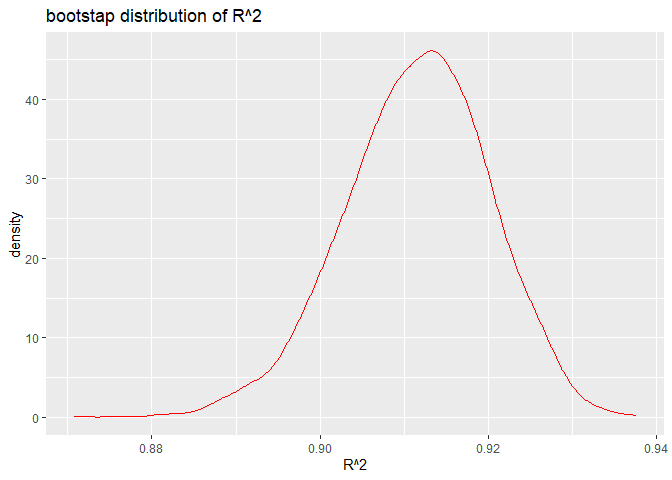
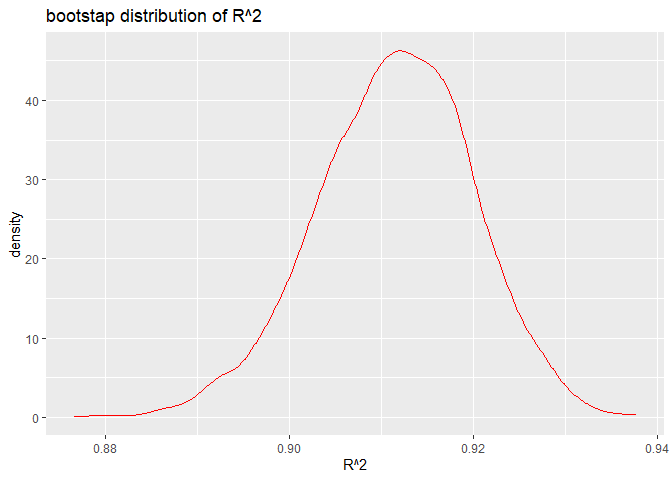
p3

diff --git a/hw6.md b/hw6.md
@@ -22,7 +22,23 @@ library(tidyverse)
 library(broom)
 library(ggplot2)
 library(purrr)
+library(modelr)
 ```
+
+    ## Warning: package 'modelr' was built under R version 4.4.2
+
+    ## 
+    ## Attaching package: 'modelr'
+    ## 
+    ## The following object is masked from 'package:broom':
+    ## 
+    ##     bootstrap
+
+``` r
+library(rsample)
+```
+
+    ## Warning: package 'rsample' was built under R version 4.4.2
 
 ## Problem 1
 
@@ -83,7 +99,7 @@ print(ci_r_sqr)
 ```
 
     ##      2.5%     97.5% 
-    ## 0.8931807 0.9273063
+    ## 0.8935250 0.9274094
 
 ``` r
 print("95% CI for log(β^0 * β^1):")
@@ -96,7 +112,7 @@ print(ci_log_beta)
 ```
 
     ##     2.5%    97.5% 
-    ## 1.966575 2.059841
+    ## 1.963406 2.059195
 
 ``` r
 ggplot(bootstrap_df, aes(x = r_sqr))+
@@ -209,3 +225,192 @@ ggplot(ordered_results, aes(x= reorder(city_state, estimate), y = estimate))+
 
 ![](hw6_files/figure-gfm/unnamed-chunk-9-1.png)<!-- --> COMMENT ON THE
 PLOT
+
+## Problem 3
+
+``` r
+bw_df = read.csv("./data/birthweight.csv")
+glimpse(bw_df)
+```
+
+    ## Rows: 4,342
+    ## Columns: 20
+    ## $ babysex  <int> 2, 1, 2, 1, 2, 1, 2, 2, 1, 1, 2, 1, 2, 1, 1, 2, 1, 2, 2, 2, 1…
+    ## $ bhead    <int> 34, 34, 36, 34, 34, 33, 33, 33, 36, 33, 35, 35, 35, 36, 35, 3…
+    ## $ blength  <int> 51, 48, 50, 52, 52, 52, 46, 49, 52, 50, 51, 51, 48, 53, 51, 4…
+    ## $ bwt      <int> 3629, 3062, 3345, 3062, 3374, 3374, 2523, 2778, 3515, 3459, 3…
+    ## $ delwt    <int> 177, 156, 148, 157, 156, 129, 126, 140, 146, 169, 130, 146, 1…
+    ## $ fincome  <int> 35, 65, 85, 55, 5, 55, 96, 5, 85, 75, 55, 55, 75, 75, 65, 75,…
+    ## $ frace    <int> 1, 2, 1, 1, 1, 1, 2, 1, 1, 2, 1, 1, 1, 1, 1, 2, 1, 1, 1, 2, 1…
+    ## $ gaweeks  <dbl> 39.9, 25.9, 39.9, 40.0, 41.6, 40.7, 40.3, 37.4, 40.3, 40.7, 4…
+    ## $ malform  <int> 0, 0, 0, 0, 0, 0, 0, 0, 0, 0, 0, 0, 0, 0, 0, 0, 0, 0, 0, 0, 0…
+    ## $ menarche <int> 13, 14, 12, 14, 13, 12, 14, 12, 11, 12, 13, 12, 13, 11, 12, 1…
+    ## $ mheight  <int> 63, 65, 64, 64, 66, 66, 72, 62, 61, 64, 67, 62, 64, 68, 62, 6…
+    ## $ momage   <int> 36, 25, 29, 18, 20, 23, 29, 19, 13, 19, 23, 16, 28, 23, 21, 1…
+    ## $ mrace    <int> 1, 2, 1, 1, 1, 1, 2, 1, 1, 2, 1, 1, 1, 1, 1, 2, 1, 1, 1, 2, 1…
+    ## $ parity   <int> 3, 0, 0, 0, 0, 0, 0, 0, 0, 0, 0, 0, 0, 0, 0, 0, 0, 0, 0, 0, 0…
+    ## $ pnumlbw  <int> 0, 0, 0, 0, 0, 0, 0, 0, 0, 0, 0, 0, 0, 0, 0, 0, 0, 0, 0, 0, 0…
+    ## $ pnumsga  <int> 0, 0, 0, 0, 0, 0, 0, 0, 0, 0, 0, 0, 0, 0, 0, 0, 0, 0, 0, 0, 0…
+    ## $ ppbmi    <dbl> 26.27184, 21.34485, 23.56517, 21.84508, 21.02642, 18.60030, 1…
+    ## $ ppwt     <int> 148, 128, 137, 127, 130, 115, 105, 119, 105, 145, 110, 115, 1…
+    ## $ smoken   <dbl> 0.000, 0.000, 1.000, 10.000, 1.000, 0.000, 0.000, 0.000, 0.00…
+    ## $ wtgain   <int> 29, 28, 11, 30, 26, 14, 21, 21, 41, 24, 20, 31, 23, 21, 24, 2…
+
+``` r
+bw_df <- bw_df |>
+  mutate(
+    babysex = factor(babysex, labels = c("Male", "Female")),
+    frace = factor(frace, levels = c(1, 2, 3, 4, 8, 9), 
+                   labels = c("White", "Black", "Asian", "Puerto Rican", "Other", "Unknown")),
+    mrace = factor(mrace, levels = c(1, 2, 3, 4, 8), 
+                   labels = c("White", "Black", "Asian", "Puerto Rican", "Other")),
+    malform = factor(malform, levels = c(0, 1), labels = c("Absent", "Present"))
+  )
+
+bw_df |>
+  summarize(across(everything(), ~ sum(is.na(.))))
+```
+
+    ##   babysex bhead blength bwt delwt fincome frace gaweeks malform menarche
+    ## 1       0     0       0   0     0       0     0       0       0        0
+    ##   mheight momage mrace parity pnumlbw pnumsga ppbmi ppwt smoken wtgain
+    ## 1       0      0     0      0       0       0     0    0      0      0
+
+no missing values.
+
+The factors influencing birth weight (bwt) can include:
+
+Biological factors: bhead, blength, gaweeks, malform. Maternal factors:
+ppbmi, ppwt, wtgain, momage, mheigth, smoken. Socioeconomic factors:
+fincome, frace, mrace.
+
+``` r
+# proposing a regression model
+
+bwt_model <- lm(bwt ~ bhead + blength + gaweeks + malform + ppbmi + ppwt + wtgain + momage + mheight + smoken + fincome + frace, 
+                data = bw_df)
+
+summary(bwt_model)
+```
+
+    ## 
+    ## Call:
+    ## lm(formula = bwt ~ bhead + blength + gaweeks + malform + ppbmi + 
+    ##     ppwt + wtgain + momage + mheight + smoken + fincome + frace, 
+    ##     data = bw_df)
+    ## 
+    ## Residuals:
+    ##      Min       1Q   Median       3Q      Max 
+    ## -1110.89  -180.49    -1.91   173.85  2338.53 
+    ## 
+    ## Coefficients:
+    ##                     Estimate Std. Error t value Pr(>|t|)    
+    ## (Intercept)       -6260.9039   660.2135  -9.483  < 2e-16 ***
+    ## bhead               128.9507     3.4183  37.723  < 2e-16 ***
+    ## blength              74.8358     2.0258  36.942  < 2e-16 ***
+    ## gaweeks              11.8092     1.4575   8.103 6.94e-16 ***
+    ## malformPresent        6.5226    70.8121   0.092   0.9266    
+    ## ppbmi                 4.6527    14.9194   0.312   0.7552    
+    ## ppwt                  0.6628     2.5886   0.256   0.7979    
+    ## wtgain                4.1705     0.3952  10.552  < 2e-16 ***
+    ## momage                0.6368     1.1966   0.532   0.5946    
+    ## mheight               9.9687    10.3330   0.965   0.3347    
+    ## smoken               -4.8790     0.5871  -8.310  < 2e-16 ***
+    ## fincome               0.2991     0.1796   1.666   0.0958 .  
+    ## fraceBlack         -135.0116    10.2600 -13.159  < 2e-16 ***
+    ## fraceAsian          -58.2338    41.3446  -1.408   0.1591    
+    ## fracePuerto Rican  -100.2145    19.1987  -5.220 1.87e-07 ***
+    ## fraceOther          -33.2495    73.4192  -0.453   0.6507    
+    ## ---
+    ## Signif. codes:  0 '***' 0.001 '**' 0.01 '*' 0.05 '.' 0.1 ' ' 1
+    ## 
+    ## Residual standard error: 273.2 on 4326 degrees of freedom
+    ## Multiple R-squared:  0.7163, Adjusted R-squared:  0.7154 
+    ## F-statistic: 728.3 on 15 and 4326 DF,  p-value: < 2.2e-16
+
+``` r
+# model residual vs fitted values
+
+bw_df = bw_df |>
+  add_predictions(bwt_model)|>
+  add_residuals(bwt_model)
+
+ggplot(bw_df, aes(x=pred, y=resid))+
+  geom_point()+
+  geom_hline(yintercept=0, linetype = 'dashed')+
+  labs(
+    title = "residuals vs fitted values",
+    x = "predicted birth weight (fitted)",
+    y = "residuals"
+  )
+```
+
+![](hw6_files/figure-gfm/unnamed-chunk-13-1.png)<!-- -->
+
+``` r
+# length and gestational age
+model2 <- lm(bwt ~ blength + gaweeks, data = bw_df)
+
+# head circumference, length, sex, all interactions
+model3 <- lm(bwt ~ bhead + blength + babysex + bhead*blength + bhead*babysex + blength*babysex + bhead * blength * babysex, data = bw_df)
+```
+
+``` r
+set.seed(123)
+
+cv_splits = tibble(
+  splits = replicate(
+    100,
+    initial_split(bw_df, prop = 0.8), # 80% training, 20% testing
+    simplify = FALSE
+  )
+)
+
+calc_rmse = function (split, model_formula) {
+  train = analysis(split)
+  test = analysis(split)
+  
+  model = lm(model_formula, data = train)
+  
+  pred = predict(model, newdata = test)
+  
+  rmse = sqrt(mean((test$bwt - pred)^2, na.rm=TRUE))
+  
+  return(rmse)
+}
+```
+
+``` r
+cv_res <- cv_splits |>
+  mutate(
+    rmse_model_proposed = map_dbl(splits, ~ calc_rmse(.x, model_formula = bwt ~ bhead + blength + gaweeks + malform + ppbmi + ppwt + wtgain + momage + mheight + smoken + fincome + frace)),
+    rmse_model2 = map_dbl(splits, ~ calc_rmse(.x, model_formula = bwt ~ blength + gaweeks)),
+    rmse_model3 = map_dbl(splits, ~ calc_rmse(.x, model_formula = bwt ~ bhead + blength + babysex + bhead * blength + bhead * babysex + blength * babysex + bhead * blength * babysex))
+  )
+
+cv_res |>
+  summarise(
+    mean_rmse_proposed = mean(rmse_model_proposed),
+    mean_rmse_model2 = mean(rmse_model2),
+    mean_rmse_model3 = mean(rmse_model3)
+  )
+```
+
+    ## # A tibble: 1 × 3
+    ##   mean_rmse_proposed mean_rmse_model2 mean_rmse_model3
+    ##                <dbl>            <dbl>            <dbl>
+    ## 1               272.             333.             287.
+
+``` r
+rmse_long <- cv_res |>
+  select(rmse_model_proposed, rmse_model2, rmse_model3) |>
+  pivot_longer(cols = everything(), names_to = "model", values_to = "rmse")
+
+# Plot RMSE distributions
+ggplot(rmse_long, aes(x = model, y = rmse)) +
+  geom_boxplot() +
+  labs(title = "RMSE Comparison Across Models", x = "Model", y = "RMSE") +
+  theme_minimal()
+```
+
+![](hw6_files/figure-gfm/unnamed-chunk-17-1.png)<!-- -->
